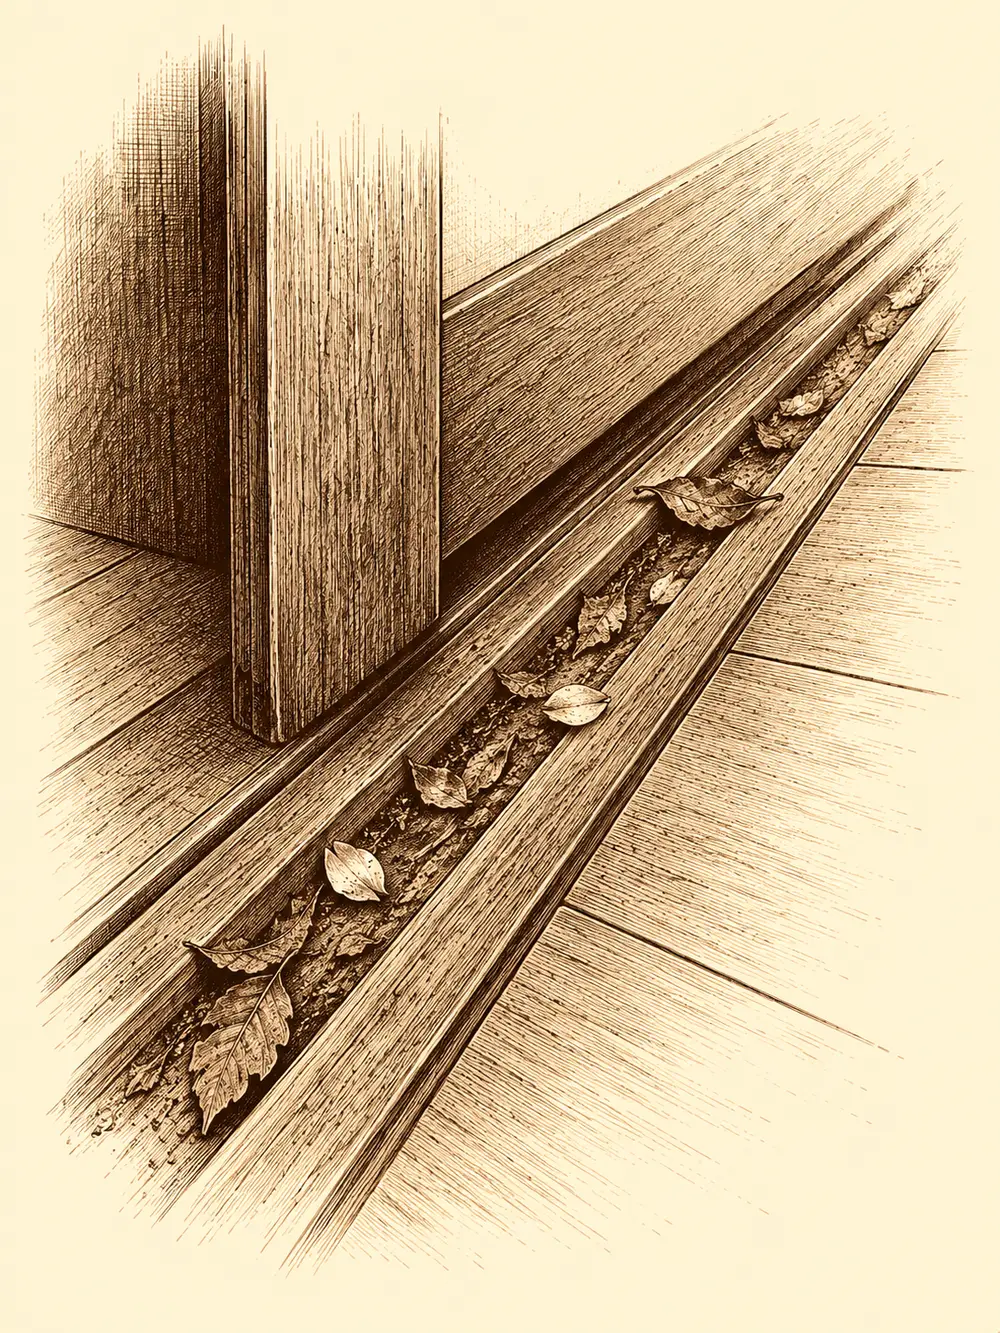
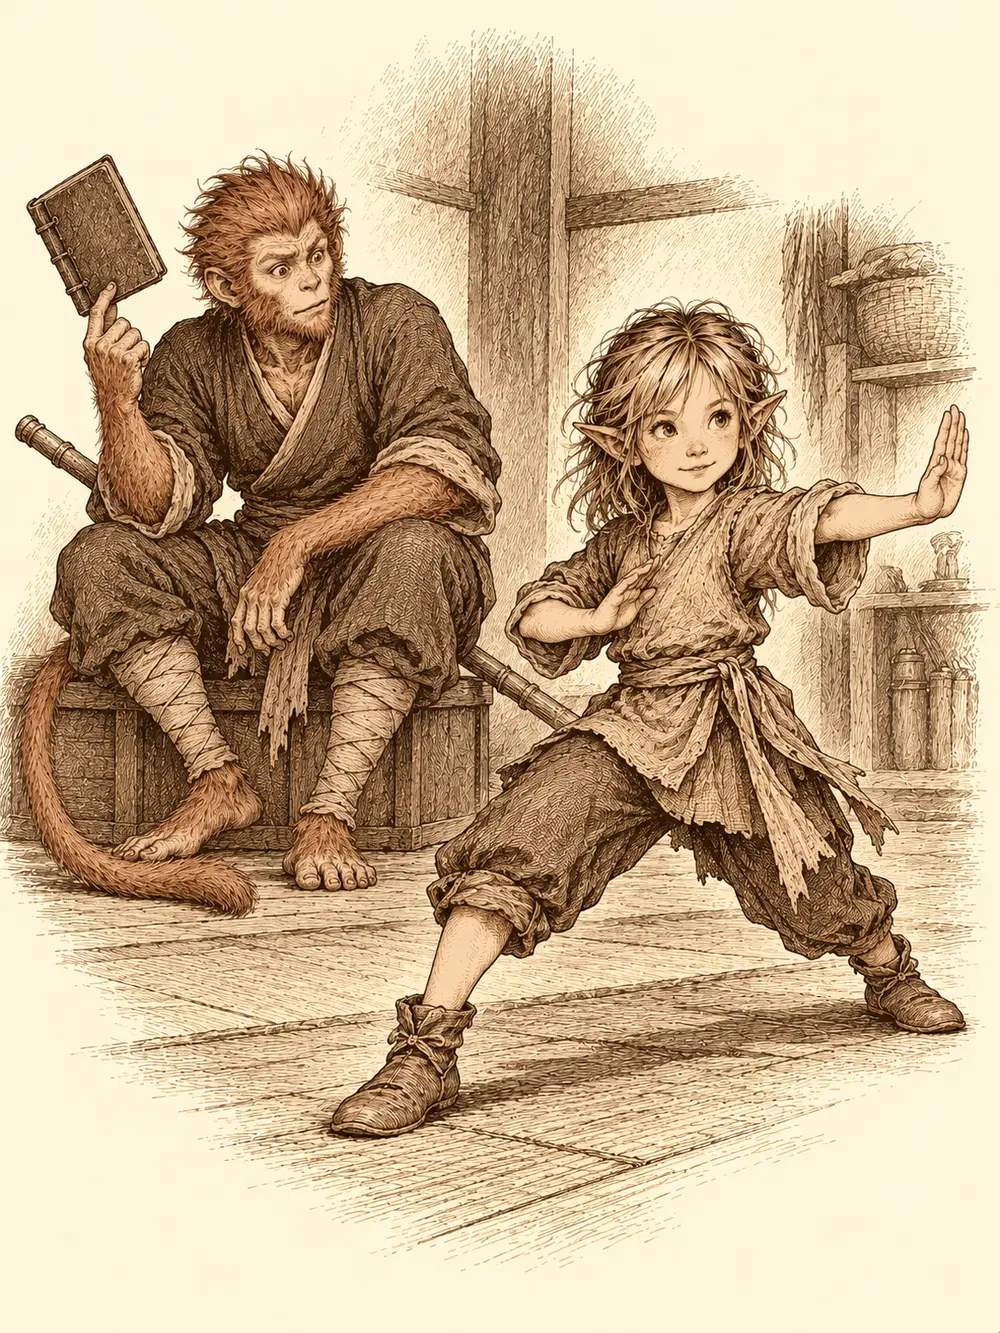
feat: Kuroto plates for chapters 41-50 (batch 5) and a stronger plate for 35
Claude-Session: https://claude.ai/code/session_015drHjnJFACoiJ73CEVn1UU

diff --git a/novela/kuroto/035.html b/novela/kuroto/035.html
@@ -151,7 +151,7 @@
 <p>Les dio permiso para registrar toda la casa y hablar con quien quisieran, y se marchó a Sho a ver al shogun.</p>
 <div class="novela-scene-break" role="separator" aria-label="Cambio de escena"><span aria-hidden="true">✦</span></div>
 <p>La sala de rezos daba al jardín privado. En el centro había una estatua de un dios de muchos brazos con dos manos juntas delante del pecho, y allí, explicó Hiroshi, estaba encajada la gema, tan firme que hacía falta fuerza para sacarla. El aire estaba espeso de incienso.</p>
-<figure class="novela-plate" data-novela-plate><img src="../../assets/novela/lamina-035.webp" alt="Ilustración: Tierra, hojas y pétalos quedan atrapados entre las juntas de una guía de puerta corredera sobre el suelo barrido." width="1200" height="1600" loading="lazy"><figcaption>en la guía de la puerta, entre las juntas</figcaption></figure>
+<figure class="novela-plate" data-novela-plate><img src="../../assets/novela/lamina-035.webp" alt="Ilustración: Shizuka demuestra un golpe de palma frente a Sun, que la observa sorprendido." width="1200" height="1600" loading="lazy"><figcaption>un golpe seco con la palma abierta</figcaption></figure>
 <p>Erk se arrodilló junto a la puerta corredera antes de que nadie la cruzara. El suelo estaba barrido, pero en la guía de la puerta, entre las juntas, quedaban restos de tierra, hojas y algún pétalo. Sun se acercó a la estatua con cuidado, casi con respeto, porque aquellos dioses le erizaban el pelo, y encontró en las manos de piedra tres marcas paralelas, como si alguien hubiera hecho palanca con algo de tres puntas. Las midieron con cuidado. Podía haber sido un rastrillo pequeño, un tenedor de pescado o las garras de algo grande.</p>
 <p>Maroxi se había vuelto invisible nada más salir Tanaka. Desde que había entrado notaba sobre la casa un hechizo de protección, corriente en las casas ricas de Sho, pero este estaba mal hecho, débil, lleno de huecos. Pegó la oreja a la puerta de la cocina y oyó a la cocinera hablar sola entre cacharros: un poco de esto, sí, al señor le sorprendería, sería muy divertido. Se acercó luego al jardinero, que podaba de rodillas sin levantar la vista, y vio que bajo el kimono le colgaban varias trampas pequeñas, de las que sirven para pájaros o grillos.</p>
 <p>Takeshi contó, cuando le preguntaron, que había ratas por la parte norte de la finca y que había puesto trampas, pero que algunas se le habían roto. Se las enseñó: estaban dobladas, aplastadas, como si las hubiera pisado algo mucho más grande que una rata. Recordó también que días atrás había oído a Yumi y a Hiroshi discutir sobre rituales y papeles mágicos. Él se marchaba a su casa hacia las ocho de la tarde, y anotó su dirección en Ukio por si lo necesitaban.</p>

diff --git a/novela/kuroto/047.html b/novela/kuroto/047.html
@@ -132,6 +132,7 @@
 <p>Pelearon calle a calle. Jin abría cuerpos con la espada, que en sus manos ardía con un fuego verde. Erk disparaba desde los tejados. Maroxi soltó una bola de fuego en mitad de una aglomeración de zombis y estos se derritieron hasta quedar en ceniza. Durante un instante pareció suficiente.</p>
 <p>Entonces llegó un rugido desde el sur. Los cuerpos caídos se estremecieron y volvieron a ponerse en pie. Las cenizas se arrastraron por el suelo, se juntaron y se levantaron con forma de hombre.</p>
 <p>Ikari levantó a su alrededor un círculo de llamas que quemaba a todo muerto que intentaba cruzarlo, aunque también les cerraba el paso a sus compañeros; Jin tuvo que dar un rodeo para no quedar atrapado dentro. Erk, mientras tanto, saltaba de cornisa en cornisa buscando el origen del rugido. Al final lo vio, por encima de los tejados. Era un árbol enorme, de ramas retorcidas, que se movía. Cada vez que rugía, los muertos de las calles se levantaban.</p>
+<figure class="novela-plate" data-novela-plate><img src="../../assets/novela/lamina-047.webp" alt="Ilustración: Jin hunde su espada encendida en el tronco de un árbol retorcido mientras muertos se acercan por la calle." width="1200" height="1600" loading="lazy"><figcaption>la corteza saltó en astillas por todas partes</figcaption></figure>
 <p>Las ramas lo defendían arrojando tierra. Jin y Erk recibieron lo suyo. Pero Jin llegó hasta el tronco y le hundió la espada envuelta en fuego, y la corteza saltó en astillas por todas partes. Maroxi le abrió camino con espadas que giraban en el aire y Erk siguió disparando. Ikari llamó a su perro de sombras, que se lanzó sobre el árbol, y después le echó encima una magia que pudre lo que toca. El árbol era una planta, al fin y al cabo, aunque estuviera muerta. Las ramas se ennegrecieron, se curvaron y empezaron a caer mientras el árbol chillaba, y por toda la ciudad los zombis se deshicieron sobre la tierra hasta no ser nada.</p>
 <p>Durante un momento solo se oyó el crepitar del fuego.</p>
 <p>Después, una risa. Las luces de las farolas parpadearon de forma extraña, como si algo invisible se moviera bajo ellas, y en la calle aparecieron cuatro figuras. Tres eran sectarios con la máscara de siempre. El cuarto llevaba túnicas más ricas, un gorro alto con adornos de oro y joyas, y se abanicaba con calma, dando palmaditas.</p>

diff --git a/novela/kuroto/046.html b/novela/kuroto/046.html
@@ -148,6 +148,7 @@
 <div class="novela-scene-break" role="separator" aria-label="Cambio de escena"><span aria-hidden="true">✦</span></div>
 <p>Oyeron aleteos antes de verlos. De entre las nubes bajaron tres criaturas con forma de hombre, enormes, con rostro de cuervo y katanas en las manos. Batieron las alas y una lluvia de plumas les pasó por los ojos buscando cegarlos. Shiru, que no había oído nada, se encontró con una espada silbándole junto a la oreja.</p>
 <p>El cervan respondió a su manera. Agarró a dos de las criaturas por las patas, una con cada mano, y las obligó a golpearse entre ellas. Sun sacó el bastón y alternó palos y puñetazos. Ikari quemaba y pudría las plumas con su magia, y el mercader disparaba flechas desde detrás de una roca. Fueron cayendo. El tercero, al ver a los otros en el suelo, remontó el vuelo y huyó entre las nubes.</p>
+<figure class="novela-plate" data-novela-plate><img src="../../assets/novela/lamina-046.webp" alt="Ilustración: Sun desvía una lluvia de plumas mientras tres hombres cuervo descienden con katanas." width="1200" height="1600" loading="lazy"><figcaption>una lluvia de plumas les pasó por los ojos</figcaption></figure>
 <p>Sun quiso aprovechar la piel de los caídos. La carne era dura como cuero viejo y el cuchillo se le melló. El mercader se lo arregló allí mismo con un poco de magia, por una moneda.</p>
 <div class="novela-scene-break" role="separator" aria-label="Cambio de escena"><span aria-hidden="true">✦</span></div>
 <p>La primera sala era circular. En el centro había una mesa baja con seis objetos: un cetro, una botella, un libro, una piedra, un espejo y un anillo. Cada uno, al tocarlo, hablaba con una voz que solo oía quien lo sostenía. El cetro prometía gobernar los cielos y la tierra sin que nada se opusiera a su voluntad. El libro, todo el conocimiento del mundo, del pasado al futuro. Otros ofrecían un deseo que nadie podría resistir, o la eternidad. La piedra prometía calma en el caos y claridad en la confusión. El espejo, cuando Sun lo cogió, le dijo solo: <em>Elige sabiamente, Rey Mono.</em></p>

diff --git a/novela/kuroto/050.html b/novela/kuroto/050.html
@@ -148,6 +148,7 @@
 <p>&quot;¿Para qué me habéis traído, si no voy a poder ayudar?&quot;.</p>
 <p>Shiru le puso las manos en los hombros. &quot;Tú eres lo que eliges ser&quot;.</p>
 <p>Jin y Shiru empujaron una puerta doble de piedra con un aarakocra en relieve. Pesaba una barbaridad. Al abrirla, de la pared salió un chorro de hielo que los atravesó a los dos y los dejó tiritando. En la biblioteca, los libros se deshacían en polvo en cuanto alguien los tocaba.</p>
+<figure class="novela-plate" data-novela-plate><img src="../../assets/novela/lamina-050.webp" alt="Ilustración: Seiryu, un dragón de agua, surge en espiral sobre el altar de un templo inundado." width="1200" height="1600" loading="lazy"><figcaption>El agua empezó a girar alrededor del altar</figcaption></figure>
 <p>Más allá, el templo se hundía en el mar. Unas escaleras bajaban a una zona completamente inundada, y no había más camino que bucear. Jin cruzó sin problema. A Ikari, que hacía años que no tragaba otra cosa que sake, el agua se le metió en los pulmones a mitad de camino y empezó a ahogarse en la oscuridad. Jin volvió a por él y salió otra vez sin aire. Entonces un palo apareció junto a la mano del tanuki. Ikari se agarró, alguien tiró desde el otro lado y lo sacó rojo como un tomate, tosiendo agua salada. Era el bastón de Sun.</p>
 <p>Al otro lado el agua les llegaba por la cintura y cada paso costaba el doble. Sun abrió una puerta de madera podrida, que se deshizo al tocarla, y un tiburón enorme se le echó encima de un mordisco.</p>
 <p>Había más. Toda una sala de tiburones, uno de ellos tan grande que se quedó atascado en un paso y se dedicaba a embestir el marco una y otra vez. Jin los cortaba con la espada envuelta en fuego, aunque el agua le apagaba la mitad de los golpes. Ikari se hundía hasta los ojos, como un cocodrilo, y acechaba. Shiru agarró a uno de los tiburones, lo arrastró hasta el atascado y se apartó en el momento justo: el pequeño, desorientado y sangrando, le clavó los dientes al grande y lo destrozó. Entre todos acabaron con los que quedaban.</p>

diff --git a/novela/kuroto/045.html b/novela/kuroto/045.html
@@ -133,6 +133,7 @@
 <p>&quot;Entraste en la biblioteca y te llevaste el papel. Pensé que, como mujer, me entenderías&quot;.</p>
 <p>El enano no esperó a que terminaran. Se transformó en un inugami, un hombre perro de hocico largo, olfateó el aire y captó un olor que no conocía, muy lejano. Echó a correr a cuatro patas. Los demás lo siguieron. Higeki, que iba leyendo su libro de tragedias sin mirar dónde pisaba, tropezó con un cuerpo y se dio de bruces contra el suelo. Danifae le tendió la mano con una sonrisa que no le gustó a nadie.</p>
 <p>Las afueras estaban igual que la ciudad: un rastro de cuerpos inconscientes, como migas de pan, que se adentraba en el monte. Tardaron casi una hora en recorrerlo entre árboles y piedras. Al final había una gruta, y delante de ella, malherido junto a un árbol a medio talar, un medio orco al que conocían. Era Gur, el joven que siempre andaba buscando a alguien más fuerte con quien pelear.</p>
+<figure class="novela-plate" data-novela-plate><img src="../../assets/novela/lamina-045.webp" alt="Ilustración: Danifae golpea a un gigante cornudo mientras la caja se rompe y los espectros salen volando." width="1200" height="1600" loading="lazy"><figcaption>De ella salieron volando espectros en todas direcciones</figcaption></figure>
 <p>&quot;Esa criatura&quot;, jadeó. &quot;No he podido con ella. Soy un débil&quot;. Era enorme, contó, muy fuerte, y llevaba algo oscuro en la mano, un cubo o una esfera, no lo había visto bien. Le había pedido pelea y lo había vencido.</p>
 <p>Le metieron una poción en la boca. Kasumi le cerró las heridas con sus manos y uno de los músicos le recitó un relato sobre un ángel que pareció devolverle algo de aliento. Los huesos del medio orco se fueron soldando hasta que pudo tenerse en pie.</p>
 <p>Entonces el suelo tembló. Por encima de las piedras de la gruta apareció de un salto una criatura alta como tres hombres, con cuernos, una espada enorme en una mano y en la otra una caja que palpitaba. No dijo nada. Se rio.</p>

diff --git a/novela/kuroto/049.html b/novela/kuroto/049.html
@@ -152,6 +152,7 @@
 <p>Higeki le habló de la madre, de que la echaba de menos, de que Mitsune podría seguir jugando con él en sueños sin quedarse allí atrapada. Le contó que ellos se ocupaban de la gente, que habían visto a los servidores de Otakemaru y los habían combatido. El baku lo escuchó, y bajo la trompa asomó algo parecido a una sonrisa.</p>
 <p>&quot;Ya os conozco, Higeki. Tú, que sueñas con ser gran cocinero y con esas tragedias que te bullen por las noches. Y esa cabra que solo sueña con pan. Sé que hacéis una buena labor. Pero será en vano cuando Otakemaru vuelva. Ya lo hizo una vez. No sois los héroes. Pereceréis&quot;.</p>
 <p>&quot;El futuro es incierto. La cuidaremos, te lo prometo. Su madre, Shizuka, nosotros. Lo último que queremos es que él se salga con la suya&quot;.</p>
+<figure class="novela-plate" data-novela-plate><img src="../../assets/novela/lamina-049.webp" alt="Ilustración: Baku, una criatura de humo con forma de elefante, emerge frente a Mitsune, sentada en un hongo gigante." width="1200" height="1600" loading="lazy"><figcaption>Delante de ella empezó a formarse una criatura de humo azul</figcaption></figure>
 <p>La criatura miró a Higeki un buen rato. Luego miró a Gur, que no entendía una palabra de silvano y seguía preguntando si aquello era malo y se le podía pegar.</p>
 <p>&quot;Confiaré en vosotros. Podéis llevárosla&quot;.</p>
 <p>Bajó la cabeza, triste. El agua les llegaba a la cintura. Gur cruzó con Cael subido a un hombro y Shizuka al otro. Katari iba delante y fue la primera en notarlo: el baku temblaba. Ella sentía los sueños igual que otros sienten el viento, y los sueños de aquella criatura se estaban pudriendo. Lo que un momento antes eran imágenes agradables, la niña a salvo, los cazadores ayudando, se iban volviendo pesadillas.</p>

diff --git a/novela/kuroto/044.html b/novela/kuroto/044.html
@@ -145,6 +145,7 @@
 <p>&quot;Señor, lo precisan en cubierta&quot;.</p>
 <p>Maroxi ni levantó la vista. &quot;Sun, guárdate la cola. Y suelta el palo. Y ponte zapatos, por favor&quot;.</p>
 <p>Entre sus papeles, el mago encontró una carta que no recordaba haber guardado, firmada por Danifae con un beso pintado junto al nombre.</p>
+<figure class="novela-plate" data-novela-plate><img src="../../assets/novela/lamina-044.webp" alt="Ilustración: Byakko aparece entre rayos sobre el altar frente a Sun, que lo encara con su bastón." width="1200" height="1600" loading="lazy"><figcaption>un tigre blanco, enorme</figcaption></figure>
 <p><em>Hola, guapo. Tengo que salir unos días a hacer unos trabajos con unos socios. Si vais a esos templos que marcamos en los mapas, tened cuidado con las trampas. Y un favor: debería haber allí una bola redonda de color azul cielo. ¿Me la traeríais? Es una baratija.</em></p>
 <p>La dobló y la guardó sin comentarla.</p>
 <p>La isla era una montaña que salía casi a pico del agua, ceñida por un camino de tierra en espiral que parecía obra de una civilización antigua. En lo alto, una nube de tormenta dejaba caer rayos sin descanso. Subieron casi un día entero. A media ladera empezó a llover; más arriba atravesaron la nube y la dejaron a sus pies, encendida por dentro. Maroxi notó en ella magia de evocación, sin saber de dónde venía. Sun tocó con el bastón una nube que brillaba y el rayo bajó por el metal; lo soltó justo a tiempo.</p>

diff --git a/novela/kuroto/048.html b/novela/kuroto/048.html
@@ -136,6 +136,7 @@
 <p>&quot;Este señor se ha perdido. Que se tome las pastillas y le encuentren a la familia&quot;.</p>
 <p>&quot;¿Dónde vive usted, señor?&quot;.</p>
 <p>&quot;En la base. Hay un gato que habla, una niña que le pega a un pez y un mono llorón&quot;.</p>
+<figure class="novela-plate" data-novela-plate><img src="../../assets/novela/lamina-048.webp" alt="Ilustración: Lor Miau, erizado y con dos colas, se cierne sobre Gluglu, inmóvil en el suelo." width="1200" height="1600" loading="lazy"><figcaption>El pez se quedó quieto</figcaption></figure>
 <p>Tekel lo vio desde lejos y les dio a los mujina su primera misión: traer al viejo a casa, vivo, aunque fuera herido. Tip y Top corrieron hacia él, le señalaron el camino y, como Corco no les entendía, le dieron una colleja. El viejo se enfureció. Acabó llevándolos de vuelta a casa uno en cada mano, colgando del pellejo, mientras protestaba.</p>
 <p>Guxi, entretanto, compró piedra en una tienda y fabricó un colgante sencillo, de bisutería, sin magia ninguna. Higeki se fue derecho a la cocina de la casa con hierbas y carne. Machacó, marinó y cocinó, y el guiso le salió tan bien que le alcanzó para dos platos: unos taquitos de panceta para cada uno y unos bollos de pan rellenos de carne que dejó en la habitación de Shiru.</p>
 <p>Al llegar a la puerta de la casa, los mujina se detuvieron en seco y sacaron las cimitarras. Olfateaban. Dentro había ruido de pelea.</p>

diff --git a/novela/kuroto/042.html b/novela/kuroto/042.html
@@ -150,6 +150,7 @@
 <p>Entonces lo oyó: música. Una melodía de cuerdas que salía de debajo de la rama donde se había posado. Y de otros dos árboles más.</p>
 <p>Voló hacia Guxi.</p>
 <p>&quot;El viejo baila obligado. Y la música sale de los árboles&quot;.</p>
+<figure class="novela-plate" data-novela-plate><img src="../../assets/novela/lamina-042.webp" alt="Ilustración: Gur baila en el agua con el hacha a la espalda mientras músicos con cabeza de lira tocan entre los árboles; Corco se calienta junto al fuego." width="1200" height="1600" loading="lazy"><figcaption>Bailaba con el hacha a la espalda, enorme, desesperado</figcaption></figure>
 <p>Los semiorcos ya habían cruzado el agua, que les llegaba por las rodillas, y Corco se había sentado junto al fuego a calentarse los huesos. La música desafinó un instante, como si el músico se hubiera sorprendido, y volvió a empezar. Corco no oyó nada. Gur sí. La melodía se le metió por las orejas y le trajo recuerdos de su infancia, y de pronto sus pies empezaron a moverse solos. Bailaba con el hacha a la espalda, enorme, desesperado.</p>
 <p>&quot;¡Esta cosa me obliga a bailar!&quot;.</p>
 <p>Bajo los árboles, sentados como quien descansa a la sombra de un cerezo, aparecieron los músicos. Tenían cuerpo de hombre y, en lugar de cabeza, una lira. Tocaban sus propias cuerdas.</p>

diff --git a/novela/kuroto/041.html b/novela/kuroto/041.html
@@ -162,6 +162,7 @@
 <p>&quot;Ni se te ocurra&quot;.</p>
 <p>Ella le sostuvo la mirada un instante y apartó la mano de la espada. Luego se acercó a Gluglu con una sonrisa dulce.</p>
 <p>&quot;¿Me dejas ver esa caracola?&quot;.</p>
+<figure class="novela-plate" data-novela-plate><img src="../../assets/novela/lamina-041.webp" alt="Ilustración: Gluglu sopla una caracola ante el torii mientras la pared de niebla se abre." width="1200" height="1600" loading="lazy"><figcaption>la pared de niebla se abrió como una cortina</figcaption></figure>
 <p>&quot;No, no. Es importante. El jefe machaca a Gluglu&quot;.</p>
 <p>Maroxi y Hiki le dieron conversación, le dijeron que se escondiera bien, que volverían a por él. Danifae le acarició el brazo, se apartó, y cuando se volvió hacia sus compañeros tenía la caracola en la mano y Gluglu no se había enterado de nada. El pez globo se despidió hinchándose entero, con todas las púas erizadas, en lo que él creía que era un abrazo, y se escondió con su libro a esperar.</p>
 <p>Ben se quedó fuera. Tenía demasiado miedo. Les dijo que, si quedaban supervivientes, estarían seguramente en la cofradía de pescadores, el edificio grande junto al puerto.</p>

diff --git a/novela/kuroto/043.html b/novela/kuroto/043.html
@@ -153,6 +153,7 @@
 <p>&quot;Si atacaron a unas geishas en este camino&quot;, dijo, &quot;a lo mejor vuelven a por otras&quot;.</p>
 <div class="novela-scene-break" role="separator" aria-label="Cambio de escena"><span aria-hidden="true">✦</span></div>
 <p>Guxi, Ikari y el sirviente de metal se escondieron entre los árboles, a unos veinte pasos. Hiki y Kasumi se pusieron en mitad del camino y empezaron a tocar: él cantaba a voz en grito como una cantante de ópera, ella rasgueaba un laúd y movía las caderas. Cada uno llevaba un ritmo distinto. El blanco de la cara se le empezó a cuartear a Hiki por la barba.</p>
+<figure class="novela-plate" data-novela-plate><img src="../../assets/novela/lamina-043.webp" alt="Ilustración: Kasumi se enfrenta a una mujer de larga melena con cuchillas que retiene a un bardo en el bosque." width="1200" height="1600" loading="lazy"><figcaption>una melena negra que se movía como un nido de serpientes</figcaption></figure>
 <p>De entre los árboles llegó un siseo.</p>
 <p>Luego salió una anciana. Bajita, de pelo blanco, encorvada, que se tapaba las orejas.</p>
 <p>&quot;Ay, qué ruido es este. Qué mal suena. Callaos, chicas, callaos&quot;.</p>
